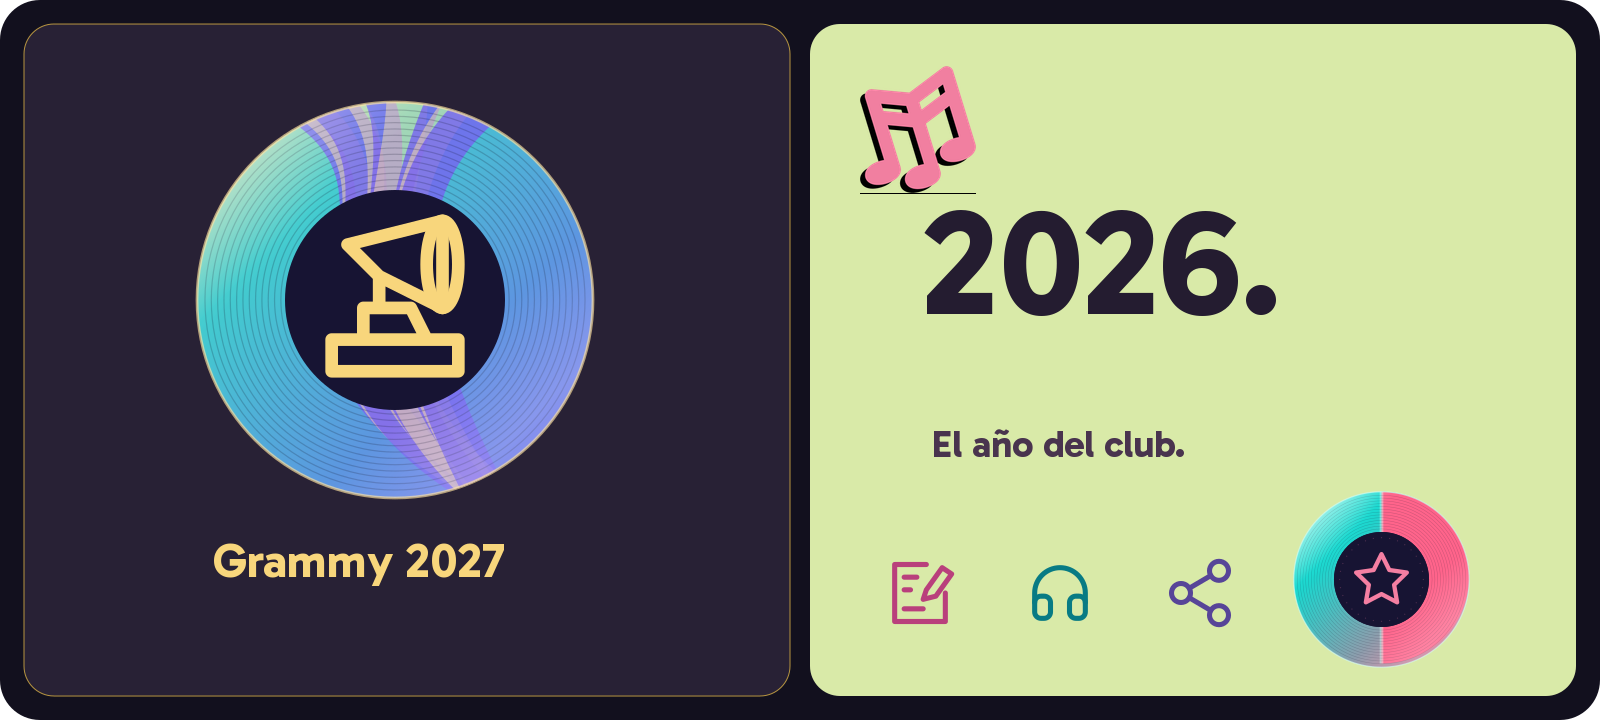
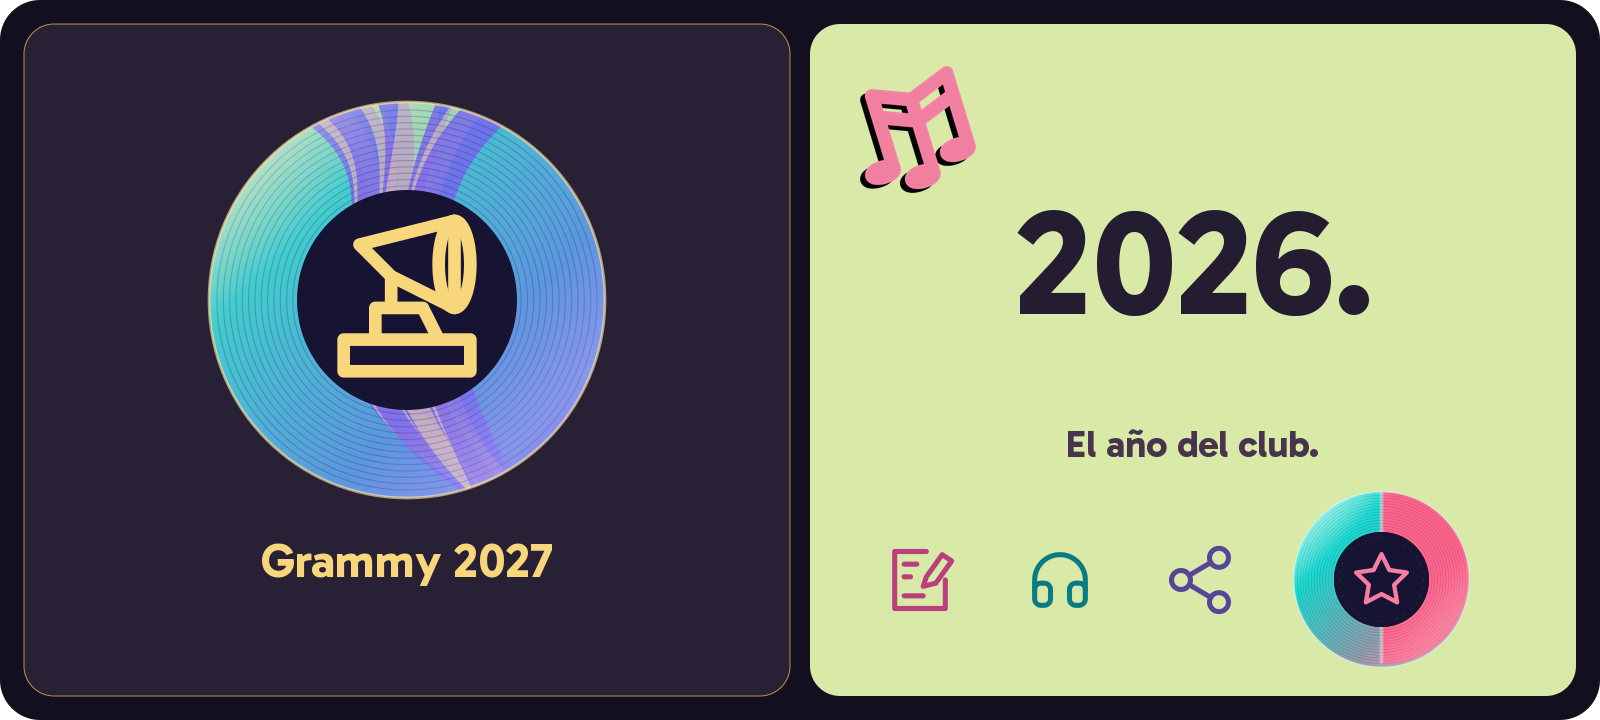
Musiclub Updates - V.12.2.5
Corrige el relleno de exportación del logo y centra los nombres de los géneros bajo sus vinilos. Ajusta los rótulos de la tornamesa y de las tarjetas Grammy 2027 y 2026 respecto a sus componentes internos.

Normaliza los 19 títulos autorizados del historial anterior. Los 42 commits conservan sus árboles de archivos, autores, fechas y mensajes originales en la descripción. El historial original queda respaldado en la etiqueta codex/history-before-titles-20261124.

Validación: 269 comprobaciones críticas aprobadas, revisión visual de las tres piezas regeneradas y documentación actualizada. Los tags oficiales se conservan.

diff --git a/src/data/patchNotesData.js b/src/data/patchNotesData.js
@@ -10,6 +10,7 @@ export const GITHUB_REPO_NAME = 'musiclub';
 export const GITHUB_COMMITS_API = `https://api.github.com/repos/${GITHUB_REPO_OWNER}/${GITHUB_REPO_NAME}/commits?per_page=100`;
 
 export const CURATED_PATCH_NOTES = [
+  {"version":"V.12.2.5","title":"Alineación de las piezas gráficas","date":"2026-11-24","sha":"","associatedShas":[],"tag":"Diseño","authorName":"Eugenio Turcott","summary":"Los gráficos del README conservan la transparencia del logo y alinean cada rótulo con su elemento.","changes":[{"type":"fix","title":"Logo sin línea inferior","description":"El relleno de exportación es transparente y conserva completo el símbolo de Musiclub."},{"type":"design","title":"Rótulos centrados en sus piezas","description":"Los nombres de los ocho géneros se centran bajo sus vinilos. También se ajustan los rótulos de la tornamesa y de las tarjetas Grammy y 2026."}]},
   {"version":"V.12.2.4","title":"Versiones y repositorio de Musiclub","date":"2026-11-24","sha":"","associatedShas":[],"tag":"Musiclub","authorName":"Eugenio Turcott","summary":"Las novedades se reúnen por versión mayor y la documentación incorpora los elementos gráficos actuales del club.","changes":[{"type":"improvement","title":"Un resumen por etapa","description":"Las versiones menores dejan de aparecer como publicaciones independientes. Los filtros incluyen todas las versiones mayores."},{"type":"improvement","title":"Documentación visual y publicaciones","description":"El README se mantiene con cada cambio; los releases oficiales se reservan para versiones mayores y los registros de publicación se conectan con Cloudflare."}]},
   {"version":"V.12.2.2","title":"Una próxima escucha con su portada","date":"2026-11-19","sha":"","associatedShas":[],"tag":"Musiclub 2026","tagColor":"from-sky-200 to-violet-300","authorName":"Eugenio Turcott","summary":"Life is Beautiful se suma al catálogo y a los próximos lanzamientos de la edición anual.","changes":[{"type":"improvement","title":"Life is Beautiful","description":"El próximo álbum de Nine Vicious tiene portada de 1000 × 1000 px, clasificación Hip-Hop y enlace directo a su ficha."}]},
   {"version":"V.12.2.1","title":"Las portadas y los releases, dentro de Musiclub","date":"2026-11-19","sha":"","associatedShas":[],"tag":"Musiclub 2026","tagColor":"from-lime-200 to-rose-300","authorName":"Eugenio Turcott","summary":"Una bienvenida abre el recorrido. Las portadas ganan calidad y los releases del resumen y de Grammy se conectan con sus fichas del catálogo.","changes":[{"type":"improvement","title":"Antes de comenzar","description":"La bienvenida aparece después del mural. Los géneros de fondo se adaptan a nombres largos, con más espacio entre letras y R&B escrito correctamente."},{"type":"fix","title":"Portadas reales y enlaces directos","description":"Los álbumes, EPs, sencillos y demás selecciones visibles tienen portada verificada, géneros y ficha propia. Las 498 nominaciones musicales quedan enlazadas al catálogo, conservando los créditos técnicos en la actividad Grammy."},{"type":"improvement","title":"Los géneros más reseñados en el club","description":"La sección reúne releases según las reseñas de Musiclub y su género principal, sin repetir un disco entre grupos. Los vinilos giran cuando están visibles y respetan los controles de movimiento."}]},

diff --git a/README.md b/README.md
@@ -4,7 +4,7 @@
 
 Un club para descubrir discos, reseñar lo que escuchas y compartirlo con otras personas.
 
-**V.12.2.4** · Novedades agrupadas en [V.12](https://www.musiclub.org/patch-notes).
+**V.12.2.5** · Novedades agrupadas en [V.12](https://www.musiclub.org/patch-notes).
 
 <a href="https://www.musiclub.org/gashapon"><img src="public/readme/genres.png" alt="Los vinilos de Pop, Rock, R&B, Hip-Hop, Indie, Electrónica, Jazz y Latino" width="100%" /></a>
 
@@ -27,4 +27,4 @@ npm run dev
 
 [Configuración y pruebas](docs/development.md) · [Publicar una versión](docs/releases.md) · [Géneros pendientes](docs/release-genres.md)
 
-<!-- Musiclub documentation revision: 93ff037c87647928 -->
+<!-- Musiclub documentation revision: b2c165cc418f06a3 -->
